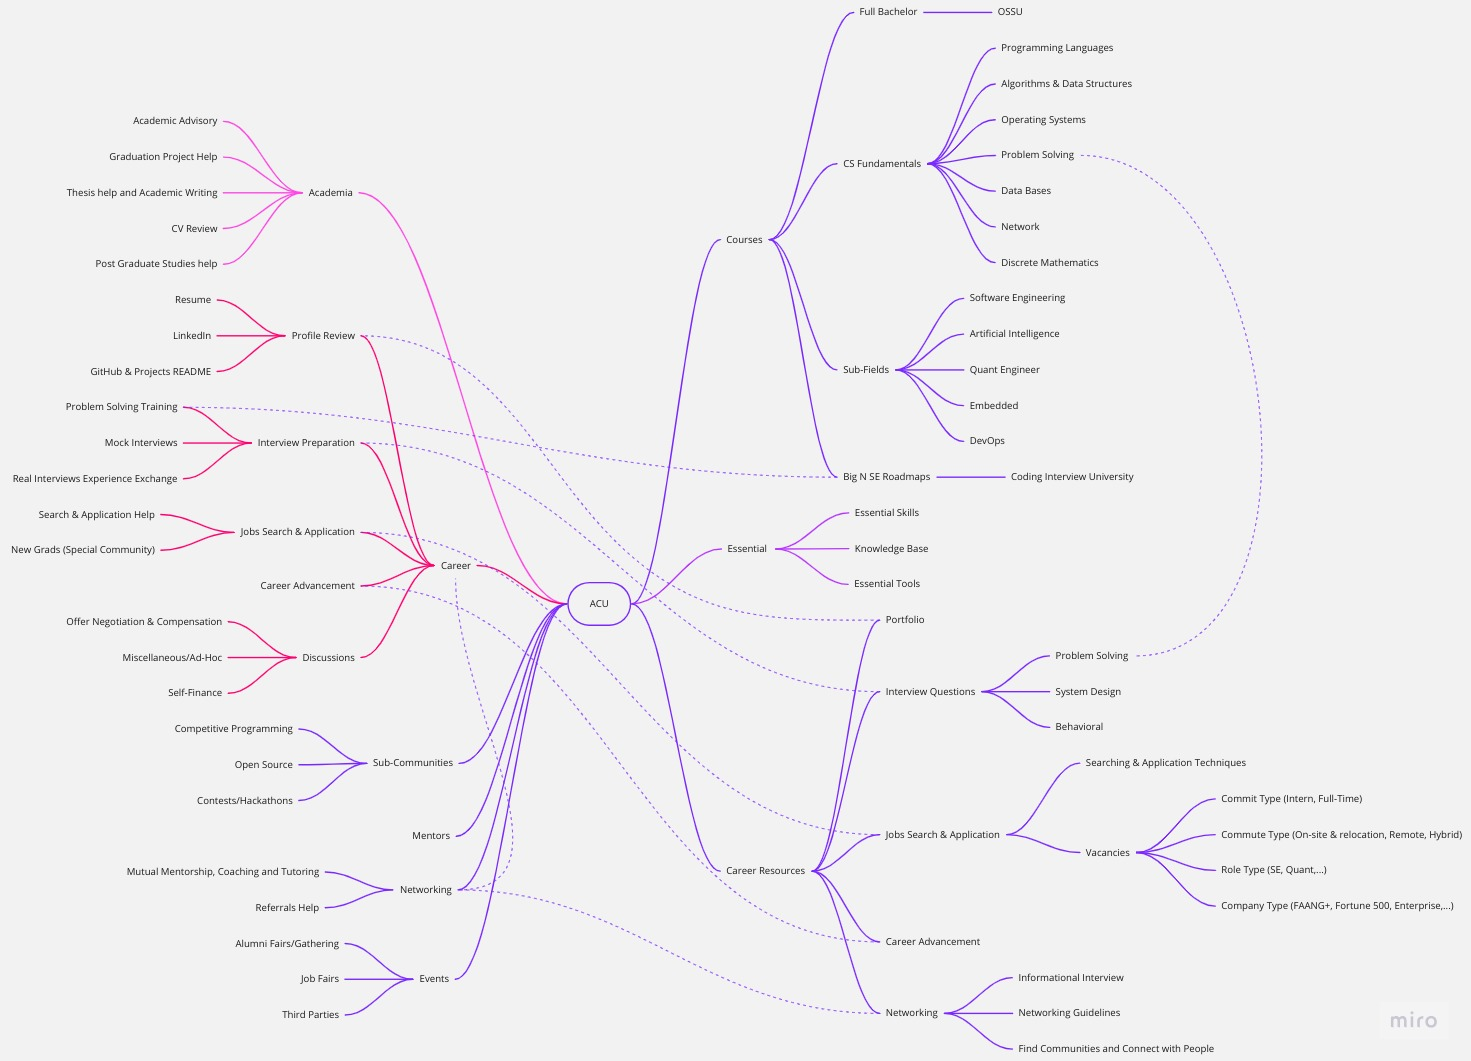
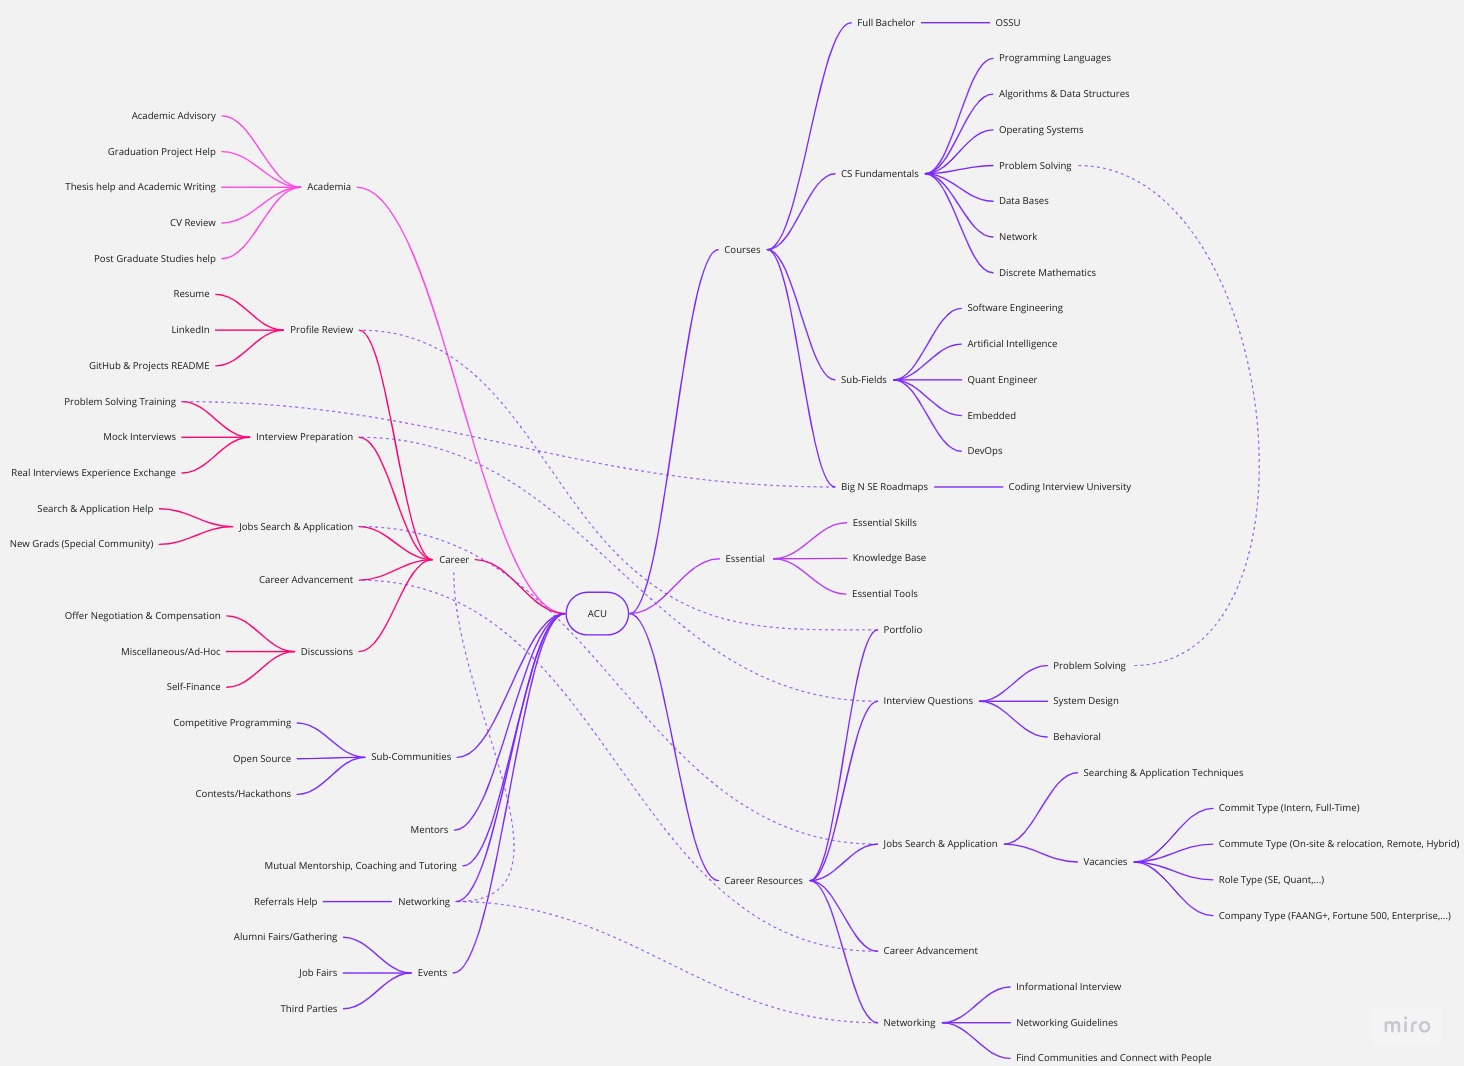
Added: Mutual Mentorship, Coaching and Tutoring

diff --git a/ACU-Mind-Map-Explanation.md b/ACU-Mind-Map-Explanation.md
@@ -20,7 +20,8 @@
    3. [Sub Communities](#sub-communities)
    4. [Networking](#networking)
    5. [Mentors](#mentors)
-   6. [Events](#events)
+   6. [Mutual Mentorship, Coaching and Tutoring](#mutual-mentorship-coaching-and-tutoring)
+   7. [Events](#events)
 4. [ACU Comparison](#acu-comparison)
    1. [Background](#background)
    2. [Courses Comparison](#courses-comparison)
@@ -183,15 +184,22 @@ So, your only way is either by learning and experiencing everything by yourself 
 3. Benefits from networking in ACU:
    1. Your only way to access services part in ACU.
    2. Learn to network outside ACU (with other mentors and colleagues or coworkers).
-   3. Mutual Mentorship, Coaching and Tutoring: Find & provide mentorship from & to peers ($\triangle 0-4$ YoE) in the entire Mind Map.
-      1. Students typically get 1-3 answers within 5 minutes of their questions.
-      2. Students provide reviews and good resources after finishing a topic in an iterative manner, leading to a curated educational resource after some time.
-      3. Students evade mistakes as others will guide them. For example, studying without taking notes and studying from interactive courses.
-   4. Referrals Help: Connect with people in the server that can, directly or indirectly, lead you to a referral.
+   3. Referrals Help: Connect with people in the server that can, directly or indirectly, lead you to a referral.
+
+Networking benefits mentioned are just an example. In fact, the examples are drops in the ocean. Networking is not like educational paths because life itself is undetermined, so you can't actually predict the rewards or calculate its ROI. Maybe you cannot see now the benefits from your peers or your mentee, but over time you will. They will eventually work for big companies and gain different experiences; your mentee will eventually grow into seniors and tech leads. By that time, your interests and goals will differ. You might want to open a startup or a consulting company where you need to consult or hire people.
+
+Networking has two shapes: trading and friendship. Trading is just an immediate favor exchange, and you only get what you can give now. Trading will not serve you when you are weak or at the beginning. Friendship is like a loan with interest. If you pick the right person, the *X* you give now, especially when he cannot pay back the favor, will return *10X* at least. Friendship will serve you when you are weak. Unfortunately, this is not a blog about friendship, but this is for the people who never understood friendship or failed to retain friends for years.
 
 ### Mentors
 
 A @Mentor who can help you advance in your career who is willing to help in the server but on his own terms within his own time. No obligations or strings attached.
+
+### Mutual Mentorship, Coaching and Tutoring
+
+1. Find & provide mentorship from & to peers ($\triangle 0-4$ YoE) in the entire Mind Map.
+   1. Students typically get 1-3 answers within 5 minutes of their questions.
+   2. Students provide reviews and good resources after finishing a topic in an iterative manner, leading to a curated educational resource after some time.
+   3. Students evade mistakes as others will guide them. For example, studying without taking notes and studying from interactive courses.
 
 ### Events
 

diff --git a/README.md b/README.md
@@ -30,8 +30,9 @@ For a full explanation, check [ACU Mind Map Explanation](./ACU-Mind-Map-Explanat
       2. [Career](#career)
       3. [Sub-Communities](#sub-communities)
       4. [Networking](#networking)
-      5. [Mentors](#mentors)
-      6. [Events](#events)
+      5. [Mutual Mentorship, Coaching and Tutoring](#mutual-mentorship-coaching-and-tutoring)
+      6. [Mentors](#mentors)
+      7. [Events](#events)
    4. [Channels & Categories Onboarding](#channels--categories-onboarding)
 
 ## Summary
@@ -224,6 +225,12 @@ To be done...
 #### Mentors
 
 Provided only under the "MENTORSHIP" Category.
+
+### Mutual Mentorship, Coaching and Tutoring
+
+* For the explanation, check [Mutual Mentorship, Coaching and Tutoring](./ACU-Mind-Map-Explanation.md#mutual-mentorship-coaching-and-tutoring)
+
+No dedicated channel. Provided throughout the entire server.
 
 #### Events
 
